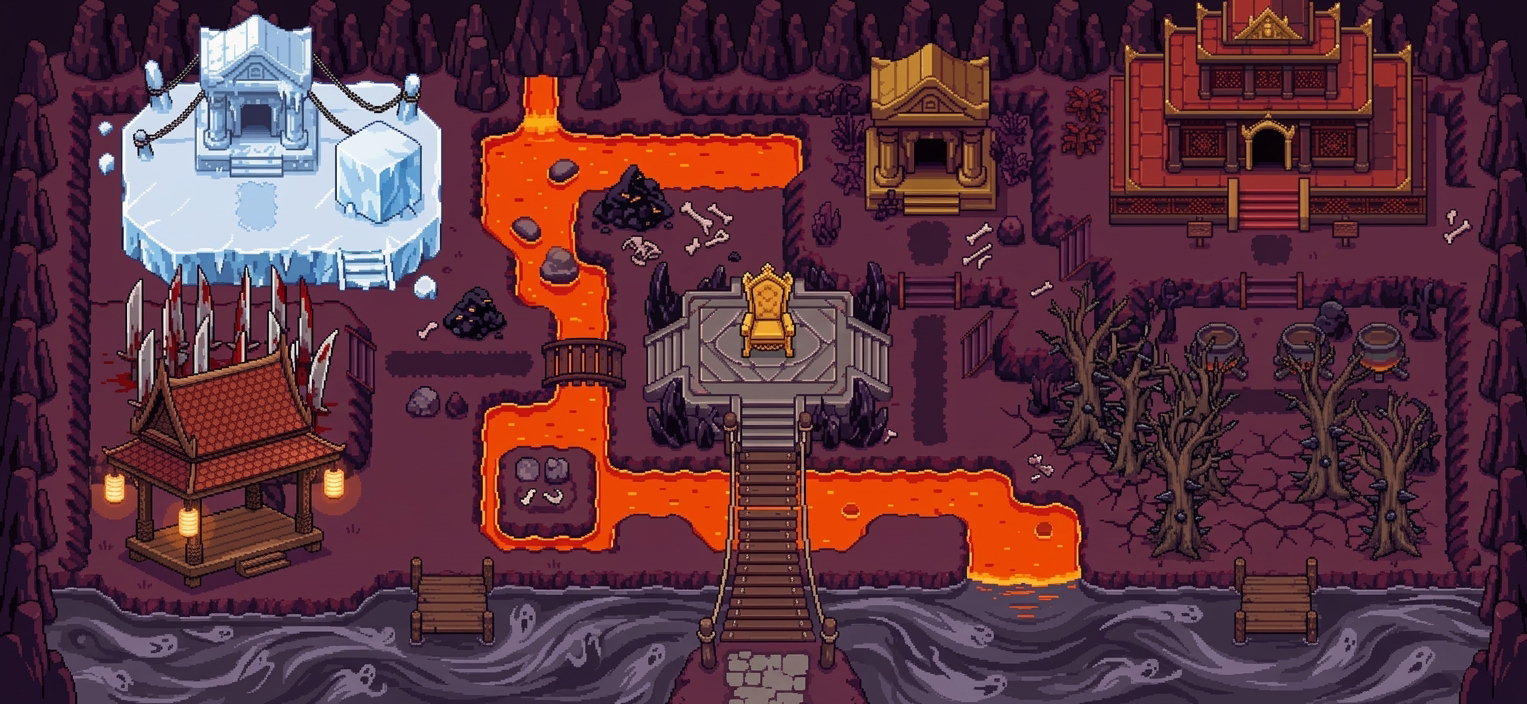
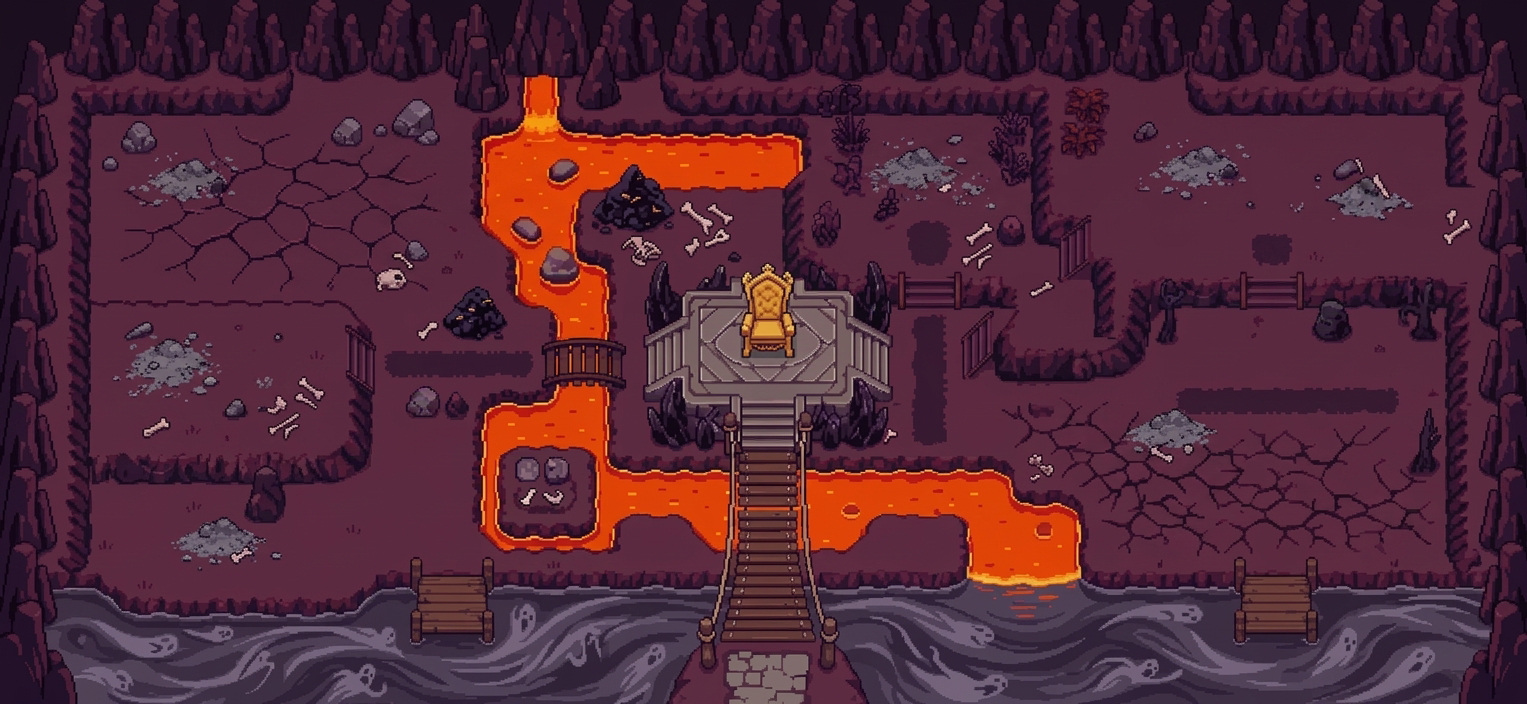
ฉากฐานที่โล่ง · แก้ขอบเทาในมุมมอง 3D · รื้อ responsive มือถือ
ฉาก: รับเวอร์ชันที่โล่งแล้ว (ขนาดเท่าเดิม 1527x704 พิกัดทุกจุดจึงยังใช้ได้)
ฉากใหม่ตัดศาลาทองด้านบนออก เหลือบัลลังก์ทองกลางแท่นอันเดียว
ย้ายจุดปรากฏของพญายมมาที่บัลลังก์นั้น — ท่านมานั่งข้างเราตอนออกความเห็นเลย

ขอบเทาตอนหมุนกล้อง: ไม่ต้อง gen ฉากใหม่ ปัญหาอยู่ที่โค้ด
แผนที่เป็นระนาบบางใบเดียว พอเอียงกล้องจึงเห็นทะลุไปที่พื้นหลังโล่ง
- เพิ่มฐานไดโอรามา แผ่นหินหนา 6 หน่วยใต้แผนที่ หมุนแล้วเห็นเป็นก้อนหินตัน
- ตั้ง clear color กับหมอกเป็นสีเดียวกับความมืดรอบนอก และเพิ่มระนาบมืดกว้างรองข้างล่าง
- ปิด alpha ของ renderer

มือถือ: จากภาพที่เป้ส่งมา แถบบัญชาการยืดเป็นสิบแถวจนดันแผนที่หลุดจอ
และบับเบิลที่ผูกตำแหน่งกับหมุดล้นขอบซ้าย-ขวาจนอ่านไม่ได้
- แต่ละกลุ่มในแถบบัญชาการเลื่อนแนวนอนในตัวเอง แถบจึงสูงแค่ 4 แถว
- บับเบิลบนจอเล็กกลายเป็นแผ่นติดขอบล่าง ไม่ผูกตำแหน่งกับหมุดอีก จึงไม่มีทางตกขอบ
- แตะหมุดเพื่อเปิด/ปิดบับเบิล (มือถือไม่มี hover) แตะที่อื่นแล้วปิด
- ย่อ header/ชิปทรัพยากร/ความสูงแผงกับบันทึกให้พอดีจอ

Claude-Session: https://claude.ai/code/session_012HrRVL2ZUEJ95yHNrFG4Sx

diff --git a/index.html b/index.html
@@ -79,7 +79,7 @@ h1 small{display:block;font-family:var(--font-sans);font-size:var(--text-xs);col
 .mark:hover .bub,.mark.show .bub{display:block}
 .mark:hover{z-index:9}
 
-.bub{width:min(30vw,340px);background:rgba(24,11,17,.96);
+.bub{width:min(32vw,340px);background:rgba(24,11,17,.96);
   border:1px solid var(--border);border-radius:var(--radius-md);padding:8px 11px;
   line-height:1.6;box-shadow:var(--shadow-lg)}
 .bub:after{content:'';position:absolute;bottom:-8px;left:50%;margin-left:-8px;
@@ -175,6 +175,38 @@ dialog h2{font-family:var(--font-display);color:var(--gold);margin:0 0 var(--spa
 .shop .n{flex:1;min-width:0}
 .shop .n b{font-size:var(--text-sm)} .shop .n div{font-size:11px;color:var(--muted-foreground);line-height:1.45}
 footer{color:var(--muted-foreground);font-size:var(--text-xs);text-align:center;padding:var(--space-2) 0}
+
+/* ---------- จอเล็ก ----------
+   ปัญหาที่เจอบนมือถือ: แถบบัญชาการยืดเป็นสิบแถวจนดันแผนที่หลุดจอ
+   และบับเบิลที่ผูกกับหมุดล้นขอบซ้าย-ขวาจนอ่านไม่ได้ */
+@media(max-width:820px){
+  .wrap{padding:var(--space-2);gap:var(--space-2)}
+  header{gap:var(--space-2)}
+  h1{font-size:1.15rem} #ava{width:38px;height:38px}
+  .res{width:100%;margin-left:0;gap:5px}
+  .chip{font-size:var(--text-xs);padding:4px 7px;flex:1 1 auto}
+  .bar{width:44px}
+
+  /* แต่ละกลุ่มเลื่อนแนวนอนในตัวเอง แถบทั้งหมดจึงสูงแค่ 4 แถว ไม่ใช่สิบ */
+  .deckbar{gap:var(--space-2);padding:var(--space-2)}
+  .deckbar .grp{width:100%}
+  .deckbar .row2{flex-wrap:nowrap;overflow-x:auto;padding-bottom:2px;
+    scrollbar-width:none;-webkit-overflow-scrolling:touch}
+  .deckbar .row2::-webkit-scrollbar{display:none}
+  .deckbar .row2>button{flex:0 0 auto}
+  .deckbar .go{margin-left:0;width:100%;min-height:42px}
+
+  /* บับเบิลกลายเป็นแผ่นติดขอบล่างจอ — ไม่ผูกตำแหน่งกับหมุดอีก จึงไม่มีทางตกขอบ */
+  .mark .bub{position:fixed;left:var(--space-2);right:var(--space-2);bottom:var(--space-2);
+    top:auto;width:auto;max-height:44vh;overflow:auto;transform:none;z-index:30}
+  .mark.aL .bub,.mark.aR .bub{left:var(--space-2);right:var(--space-2);transform:none}
+  .bub:after{display:none}
+  .mark .pin{width:32px;height:32px;font-size:16px}
+  .score{font-size:1.8rem}
+
+  .ctrl{gap:5px} .ctrl button{flex:1 1 auto}
+  .tabbody{height:230px} .log{height:210px}
+}
 </style>
 </head>
 <body>

diff --git a/src/view3d.js b/src/view3d.js
@@ -31,13 +31,14 @@ function tex(url) {
 }
 
 export function init(canvas) {
-  R = new THREE.WebGLRenderer({ canvas, antialias: false, alpha: true });
+  R = new THREE.WebGLRenderer({ canvas, antialias: false });
+  R.setClearColor(0x0d0509, 1);
   R.setPixelRatio(Math.min(2, devicePixelRatio));
   R.shadowMap.enabled = true;
   R.shadowMap.type = THREE.PCFSoftShadowMap;
 
   scene = new THREE.Scene();
-  scene.fog = new THREE.Fog(0x1a0a10, 60, 130);
+  scene.fog = new THREE.Fog(0x0d0509, 78, 165);
 
   cam = new THREE.PerspectiveCamera(38, canvas.width / canvas.height, 0.5, 400);
 
@@ -47,7 +48,26 @@ export function init(canvas) {
     new THREE.MeshStandardMaterial({ map: tex('img/scene.png'), roughness: 1, metalness: 0 }));
   ground.rotation.x = -Math.PI / 2;
   ground.receiveShadow = true;
+  ground.position.y = 0.01;                  // ลอยเหนือฝาฐานนิดเดียว กัน z-fighting
   scene.add(ground);
+
+  // ฐานไดโอรามา — แผ่นหินหนาใต้แผนที่
+  // ถ้าไม่มีอันนี้ พอหมุนกล้องแล้วจะเห็นแผนที่บางเป็นแผ่นกระดาษ และเห็นพื้นหลังโล่ง ๆ เป็นขอบเทา
+  const SLAB = 6;
+  const slab = new THREE.Mesh(
+    new THREE.BoxGeometry(W, SLAB, H),
+    new THREE.MeshStandardMaterial({ color: 0x2a1620, roughness: 1 }));
+  slab.position.y = -SLAB / 2;
+  slab.castShadow = true; slab.receiveShadow = true;
+  scene.add(slab);
+
+  // ความมืดรอบ ๆ ให้สายตาจบที่ขอบแผนที่ ไม่ใช่จบที่ขอบจอ
+  const void_ = new THREE.Mesh(
+    new THREE.PlaneGeometry(W * 6, H * 8),
+    new THREE.MeshBasicMaterial({ color: 0x0d0509 }));
+  void_.rotation.x = -Math.PI / 2;
+  void_.position.y = -SLAB - 0.2;
+  scene.add(void_);
 
   scene.add(new THREE.AmbientLight(0x5a3040, 1.15));
   const moon = new THREE.DirectionalLight(0xffd0b0, 0.75);

diff --git a/src/ui.js b/src/ui.js
@@ -142,6 +142,13 @@ function mark(cls, x, y, pin, html, show = false) {
   d.className = `mark ${cls} ${side} ${show ? 'show' : ''}`;
   d.dataset.sx = x; d.dataset.sy = y;
   d.innerHTML = `<div class="pin">${pin}</div><div class="bub">${html}</div>`;
+  // มือถือไม่มี hover — แตะหมุดเพื่อเปิด/ปิด และปิดอันอื่นที่ค้างอยู่
+  d.querySelector('.pin').onclick = ev => {
+    ev.stopPropagation();
+    const on = d.classList.contains('show');
+    ov.querySelectorAll('.mark.show').forEach(m => m.classList.remove('show'));
+    if (!on) d.classList.add('show');
+  };
   ov.appendChild(d);
   place(d);
   return d;
@@ -425,6 +432,10 @@ g.onChange = () => {
     dlg.addEventListener('close', () => { g.paused = was; updatePlay(); }, { once: true });
   }
 };
+
+addEventListener('pointerdown', e => {          // แตะที่อื่นแล้วปิดบับเบิลที่กางอยู่
+  if (!e.target.closest('.mark')) ov.querySelectorAll('.mark.show').forEach(m => m.classList.remove('show'));
+}, true);
 
 updatePlay(); refresh(); requestAnimationFrame(frame);
 

diff --git a/src/data.js b/src/data.js
@@ -94,7 +94,8 @@ export const STATIONS = [
 /** จุดสำคัญบนฉากที่ไม่ใช่สถานี */
 export const SPOTS = {
   bench:  { x:800, y:396 },                  // แท่นพิพากษา — ตัวเรายืนข้างบัลลังก์
-  throne: { x:912, y:196 },                  // ศาลาทองกลางบน — พญายมมาปรากฏตรงนี้
+  throne: { x:762, y:358 },                  // บัลลังก์ทองกลางแท่น — พญายมมาปรากฏตรงนี้
+                                             // (ฉากใหม่ 6 ก.ย. ตัดศาลาทองด้านบนออก เหลือบัลลังก์กลางแท่นอันเดียว)
   ferry:  { from:[440,646], to:[1250,646] }, // แม่น้ำวิญญาณ ท่าเรือสองฝั่ง
 };
 
